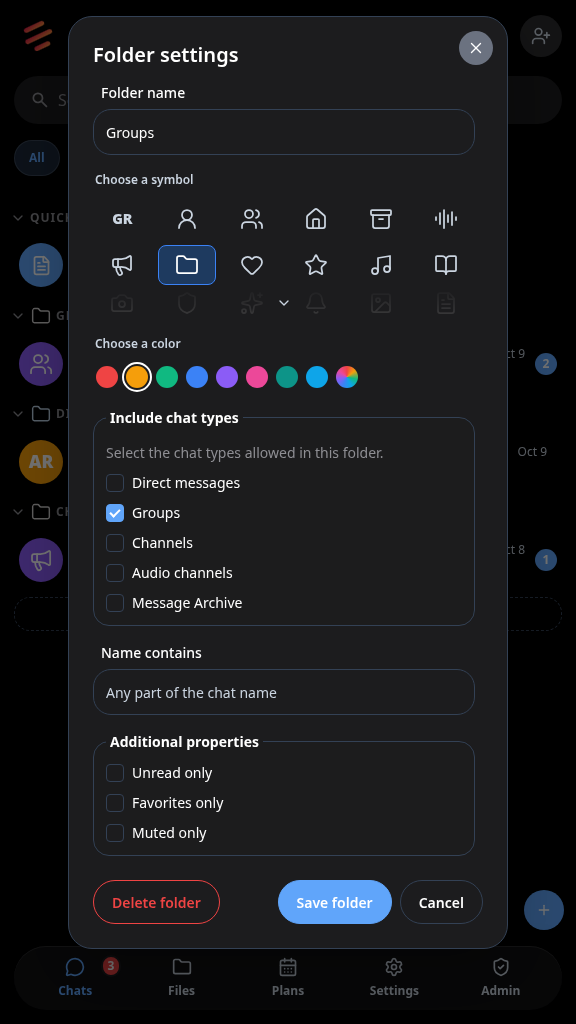
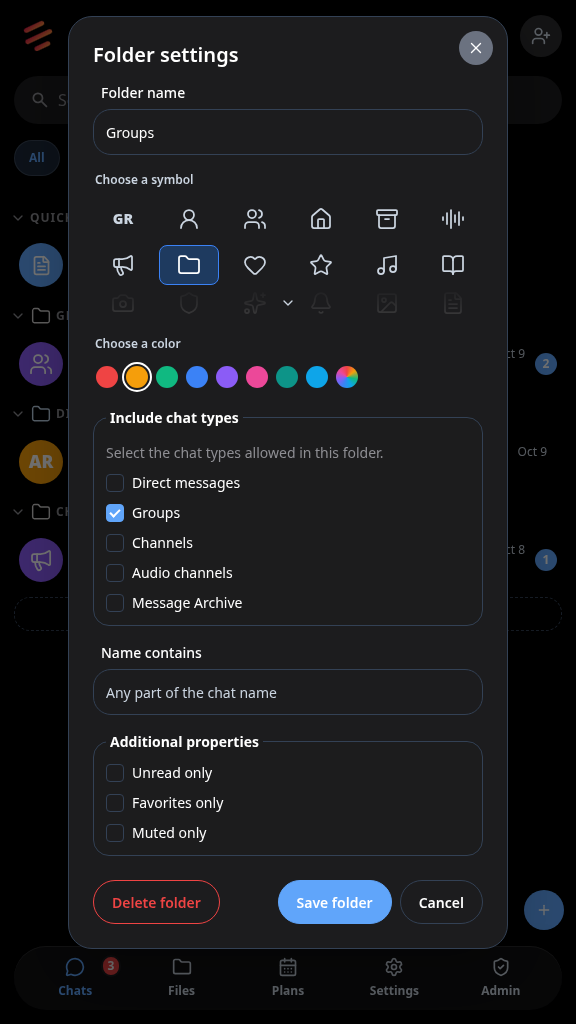
[Fix] Preserve folder form width with scrollbar gap

diff --git a/e2e/visual/popup.spec.ts b/e2e/visual/popup.spec.ts
@@ -5,7 +5,7 @@ test('V-12 section settings with long Russian text and keyboard controls',async(
  const open=page.locator('.chat-list-section:not(.chat-list-section--quick-access) .chat-folder-controls button').first();await expect(open).toBeVisible();await open.focus();await page.keyboard.press('Enter');
  const dialog=page.getByRole('dialog');await expect.soft(dialog.locator('#chat-folder-title')).toHaveText('Настройки папки');
  const field=dialog.getByRole('textbox',{name:'Название папки',exact:true});await expect(field).toBeFocused();await field.fill('Очень длинное синтетическое название раздела для проверки');
- const body=dialog.locator('.chat-folder-body');const fieldBox=await field.boundingBox();const bodyBox=await body.boundingBox();expect.soft(fieldBox&&bodyBox&&bodyBox.x+bodyBox.width-fieldBox.x-fieldBox.width).toBeGreaterThanOrEqual(8);
+ const body=dialog.locator('.chat-folder-body');const form=dialog.locator('.chat-folder-form');const fieldBox=await field.boundingBox();const bodyBox=await body.boundingBox();const formBox=await form.boundingBox();expect.soft(fieldBox&&bodyBox&&bodyBox.x+bodyBox.width-fieldBox.x-fieldBox.width).toBeGreaterThanOrEqual(8);expect.soft(fieldBox&&formBox&&Math.abs(formBox.x+formBox.width-fieldBox.x-fieldBox.width)).toBeLessThanOrEqual(1);
  await page.keyboard.press('Tab');await expect(dialog.locator(':focus')).toHaveCount(1);
  // This settings form intentionally requires its close/cancel control instead of Escape.
  await page.keyboard.press('Escape');await expect(dialog).toBeVisible();await screenshot(page,info,s);
@@ -17,6 +17,6 @@ test('V-13 folder settings title and scrollbar spacing in English dark mode',asy
  await prepareVisualScenario(page,s,'/app/chats');
  const open=page.locator('.chat-list-section:not(.chat-list-section--quick-access) .chat-folder-controls button').first();await expect(open).toBeVisible();await open.focus();await page.keyboard.press('Enter');
  const dialog=page.getByRole('dialog');await expect.soft(dialog.locator('#chat-folder-title')).toHaveText('Folder settings');
- const field=dialog.getByRole('textbox',{name:'Folder name',exact:true});const fieldBox=await field.boundingBox();const bodyBox=await dialog.locator('.chat-folder-body').boundingBox();expect.soft(fieldBox&&bodyBox&&bodyBox.x+bodyBox.width-fieldBox.x-fieldBox.width).toBeGreaterThanOrEqual(8);
+ const field=dialog.getByRole('textbox',{name:'Folder name',exact:true});const body=dialog.locator('.chat-folder-body');const form=dialog.locator('.chat-folder-form');const fieldBox=await field.boundingBox();const bodyBox=await body.boundingBox();const formBox=await form.boundingBox();expect.soft(fieldBox&&bodyBox&&bodyBox.x+bodyBox.width-fieldBox.x-fieldBox.width).toBeGreaterThanOrEqual(8);expect.soft(fieldBox&&formBox&&Math.abs(formBox.x+formBox.width-fieldBox.x-fieldBox.width)).toBeLessThanOrEqual(1);
  await screenshot(page,info,s);await dialog.locator('.popup-close').click();await expect(dialog).toHaveCount(0);
 });

diff --git a/frontend/src/styles/message-rendering.css b/frontend/src/styles/message-rendering.css
@@ -548,6 +548,7 @@
   display: flex;
   flex-direction: column;
   gap: 16px;
+  margin-right: -8px;
   padding: 16px 8px 16px 0;
   overflow-y: auto;
   overscroll-behavior: contain;
@@ -675,6 +676,7 @@
   }
 
   .chat-folder-body {
+    margin-right: -8px;
     padding: 14px 8px 14px 0;
   }
 
